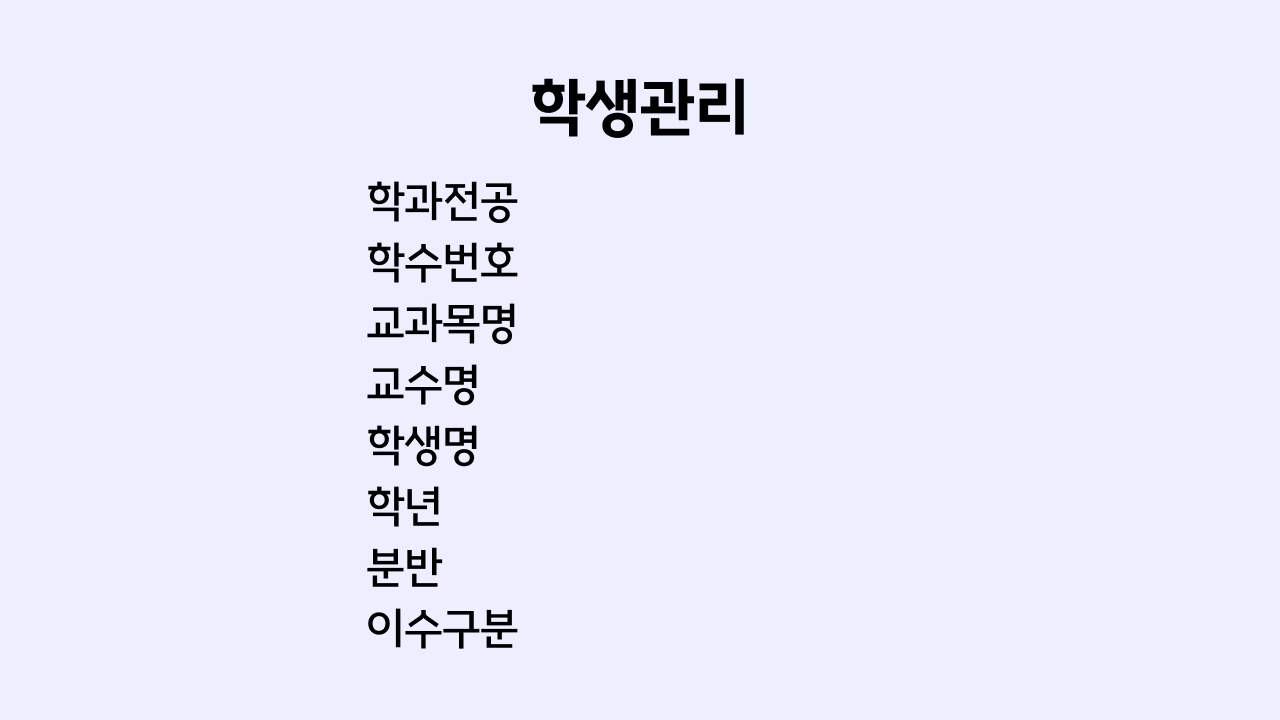
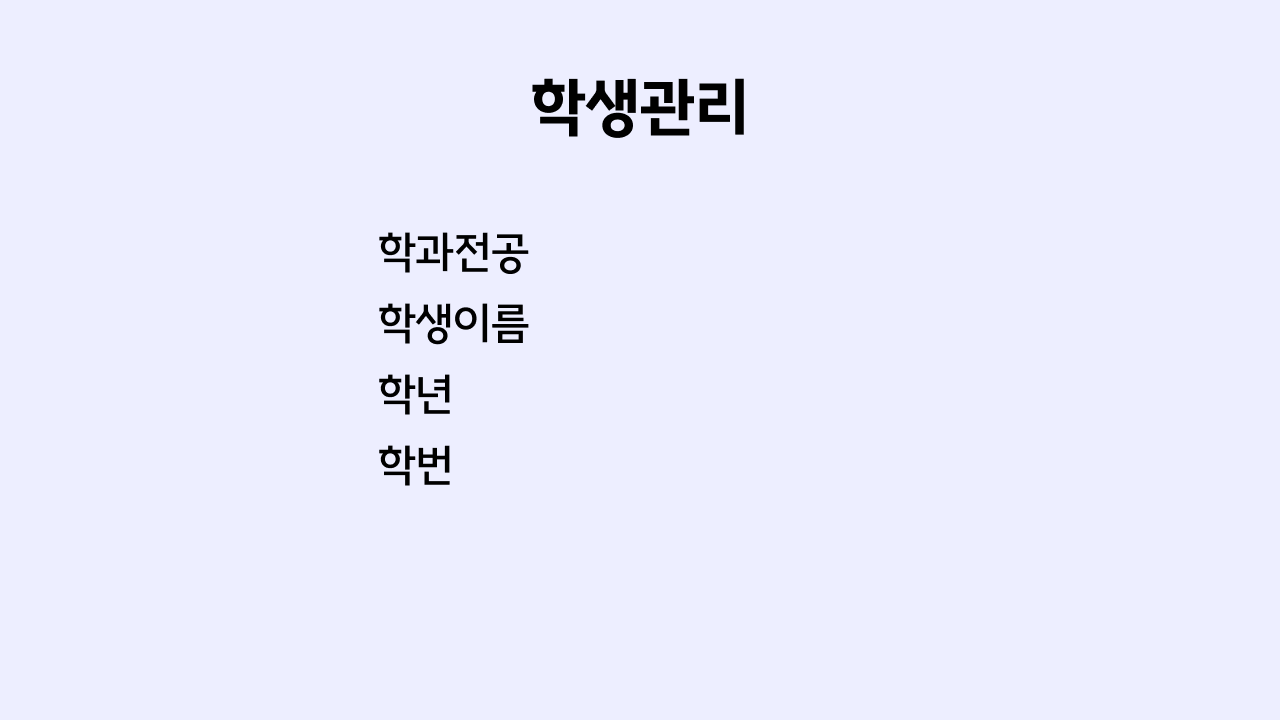
[:sparkles:] 학생관리 데이터 DB테이블에 저장

Changed region(s): [[0.2812, 0.2444, 0.4062, 0.7333], [0.2812, 0.7639, 0.4062, 0.9167]]

diff --git a/src/code/Student_Management.java b/src/code/Student_Management.java
@@ -8,86 +8,83 @@ import javax.swing.BorderFactory;
 import javax.swing.ImageIcon;
 import javax.swing.JButton;
 import javax.swing.JLabel;
+import javax.swing.JOptionPane;
 import javax.swing.JTextField;
 
 public class Student_Management extends InheritanceFrame {
 	
-	private JButton backbtn = new JButton();
 	private JButton completebtn = new JButton();
 	
 	private JTextField majortx = new JTextField();
-	private JTextField courseNtx = new JTextField();
-	private JTextField subjectNtx = new JTextField();
-	private JTextField professorNtx = new JTextField();
+//	private JTextField courseNtx = new JTextField();
+//	private JTextField subjectNtx = new JTextField();
+//	private JTextField professorNtx = new JTextField();
 	private JTextField studentNtx = new JTextField();
 	private JTextField gradetx = new JTextField();
-	private JTextField divisiontx = new JTextField();
-	private JTextField classificationtx = new JTextField();
+	private JTextField sIDtx = new JTextField();
+//	private JTextField classificationtx = new JTextField();
 	
 	public Student_Management() {
 		super("STUDENT MANAGEMENT", Main.SCREEN_WIDTH, Main.SCREEN_HEIGHT);
 		setLayout(null);
     	
-		JButtonStyle(backbtn, 755, 20, "Student_Management_Screen_Back_Button.png");
     	JButtonStyle(completebtn, 920, 20, "Student_Management_Screen_Complete_Button.png");
     	
-    	TextFieldStyle(majortx, 180);			// 학과전공
-		TextFieldStyle(courseNtx, 240);			// 학수번호
-		TextFieldStyle(subjectNtx, 300);		// 교과목명
-		TextFieldStyle(professorNtx, 360);		// 교수명
-		TextFieldStyle(studentNtx, 420);		// 학생명
-		TextFieldStyle(gradetx, 480);			// 학년
-		TextFieldStyle(divisiontx, 540);		// 분반
-		TextFieldStyle(classificationtx, 605);	// 이수구분
+    	TextFieldStyle(majortx, 230);			
+//		TextFieldStyle(courseNtx, 240);			
+//		TextFieldStyle(subjectNtx, 300);		
+//		TextFieldStyle(professorNtx, 360);		
+		TextFieldStyle(studentNtx, 300);		
+		TextFieldStyle(gradetx, 370);			
+		TextFieldStyle(sIDtx, 440);		
+//		TextFieldStyle(classificationtx, 605);	
 		
 		JLabel lb = new JLabel(new ImageIcon(getClass().getResource("/image/Student_Management_Screen.png")));
         lb.setBounds(0, 0, Main.SCREEN_WIDTH, Main.SCREEN_HEIGHT);
         add(lb);
-        
-        backbtn.addActionListener(e -> {
-        	dispose();
-        	new Professor().setVisible(true);
-        });
-        
+
         completebtn.addActionListener(e -> {
         	// 완료 : DB 테이블에 값 저장, 메인화면으로 이동
         	String major = majortx.getText();
-        	String course = courseNtx.getText();
-        	String subject = subjectNtx.getText();
-        	String professor = professorNtx.getText();
+//        	String course = courseNtx.getText();
         	String student = studentNtx.getText();
         	String grade = gradetx.getText();
-        	String division = divisiontx.getText();
-        	String classification = classificationtx.getText();
+        	String sID = sIDtx.getText();
         	
         	DB_connection s;
         	
         	try {
-        		s = new DB_connection();
-        		String sql = "INSERT INTO signup.student_management(major, subnum, subject, professor, sname, grade, class, course) VALUES (?, ?, ?, ?, ?, ?, ?, ?)";
-	        	PreparedStatement ps = s.conn.prepareStatement(sql);
-	        	
-	        	ps.setString(1, major);
-	        	ps.setString(2, course);
-	        	ps.setString(3, subject);
-	        	ps.setString(4, professor);
-	        	ps.setString(5, student);
-	        	ps.setString(6, grade);
-	        	ps.setString(7, division);
-	        	ps.setString(8, classification);
-	        	
-				s = new DB_connection();        	
-				ps.executeUpdate();
-				
-			} catch (Exception e1) {
-				e1.printStackTrace();
-				System.out.println(e1.toString());
-			}
+        	    s = new DB_connection();
+        	    String sql = "INSERT INTO signup.student_management(major, name, grade, sID) VALUES (?, ?, ?, ?)";
+        	    PreparedStatement ps = s.conn.prepareStatement(sql);
+
+        	    ps.setString(1, major);
+        	    ps.setString(2, student);
+        	    ps.setString(3, grade);
+        	    ps.setString(4, sID);
+
+        	    s = new DB_connection();    
+
+        	    int affectedRows = ps.executeUpdate();
+
+        	    if (affectedRows > 0) {
+        	        System.out.println("저장 완료");
+        	        JOptionPane.showMessageDialog(this, "저장 완료", "알림", JOptionPane.INFORMATION_MESSAGE);
+        	    } else {
+        	        System.out.println("레코드 삽입 실패");
+        	        JOptionPane.showMessageDialog(this, "레코드 삽입 실패", "오류", JOptionPane.ERROR_MESSAGE);
+        	    }
+
+        	} catch (Exception e1) {
+        	    e1.printStackTrace();
+        	    System.out.println(e1.toString());
+        	    JOptionPane.showMessageDialog(this, "오류 발생: " + e1.getMessage(), "오류", JOptionPane.ERROR_MESSAGE);
+        	}
         	
         	dispose();
-        	new Professor().setVisible(true);
+            new Professor().setVisible(true);
         });
-        
+
 	}
 	
 	// 버튼 설정 메소드
@@ -102,7 +99,7 @@ public class Student_Management extends InheritanceFrame {
     
     // 텍스트필드 설정 메소드
     private JTextField TextFieldStyle(JTextField textField, int x) {
-        textField.setBounds(550, x, 495, 43);
+        textField.setBounds(550, x, 495, 45);
         textField.setBackground(Color.decode("#C8C9DA"));
         textField.setFont(new Font("SUITE", Font.PLAIN, 18));
         textField.setBorder(BorderFactory.createEmptyBorder());

diff --git a/src/code/Lecture_Management.java b/src/code/Lecture_Management.java
@@ -16,7 +16,7 @@ public class Lecture_Management extends InheritanceFrame {
 
     private JButton correctionbtn = new JButton();
     private JButton registrationbtn = new JButton();
-    
+
     private JTextField majortx = new JTextField();
     private JTextField numtx = new JTextField();
     private JTextField classtx = new JTextField();
@@ -51,6 +51,7 @@ public class Lecture_Management extends InheritanceFrame {
         lb.setBounds(0, 0, Main.SCREEN_WIDTH, Main.SCREEN_HEIGHT);
         add(lb);
 
+        // correctionbtn 액션 리스너
         correctionbtn.addActionListener(e -> {
             String major = majortx.getText();
             String num = numtx.getText();
@@ -104,6 +105,7 @@ public class Lecture_Management extends InheritanceFrame {
             new Professor().setVisible(true);
         });
 
+        // registrationbtn 액션 리스너
         registrationbtn.addActionListener(e -> {
             String major = majortx.getText();
             String num = numtx.getText();
@@ -118,26 +120,41 @@ public class Lecture_Management extends InheritanceFrame {
                 // 데이터베이스에 연결
                 DB_connection s = new DB_connection(url, user, password);
 
-                String sql = "INSERT INTO signup.timetable(major, num, class, subject, course, score, time, lectureroom) VALUES (?, ?, ?, ?, ?, ?, ?, ?)";
-                try (PreparedStatement ps = s.conn.prepareStatement(sql)) {
-                    ps.setString(1, major);
-                    ps.setString(2, num);
-                    ps.setString(3, classroom);
-                    ps.setString(4, subject);
-                    ps.setString(5, course);
-                    ps.setString(6, score);
-                    ps.setString(7, time);
-                    ps.setString(8, lectureroom);
+                // 새 레코드 추가
+                String insertSql = "INSERT INTO signup.timetable(major, num, class, subject, course, score, time, lectureroom) VALUES (?, ?, ?, ?, ?, ?, ?, ?)";
+                try (PreparedStatement insertPs = s.conn.prepareStatement(insertSql, PreparedStatement.RETURN_GENERATED_KEYS)) {
+                    insertPs.setString(1, major);
+                    insertPs.setString(2, num);
+                    insertPs.setString(3, classroom);
+                    insertPs.setString(4, subject);
+                    insertPs.setString(5, course);
+                    insertPs.setString(6, score);
+                    insertPs.setString(7, time);
+                    insertPs.setString(8, lectureroom);
 
-                    ps.executeUpdate();
+                    int affectedRows = insertPs.executeUpdate();
+
+                    if (affectedRows > 0) {
+                        // 삽입된 레코드의 ID 가져오기
+                        try (ResultSet generatedKeys = insertPs.getGeneratedKeys()) {
+                            if (generatedKeys.next()) {
+                                int newRecordId = generatedKeys.getInt(1);
+                                System.out.println("New Record ID: " + newRecordId);
+                            }
+                        }
+                        JOptionPane.showMessageDialog(this, "저장 완료", "알림", JOptionPane.INFORMATION_MESSAGE);
+                    } else {
+                        JOptionPane.showMessageDialog(this, "레코드 삽입 실패", "오류", JOptionPane.ERROR_MESSAGE);
+                    }
                 }
-
-                // 저장 완료 메시지 출력
-                JOptionPane.showMessageDialog(this, "저장 완료", "알림", JOptionPane.INFORMATION_MESSAGE);
+            } catch (SQLException e1) {
+                e1.printStackTrace();
+                JOptionPane.showMessageDialog(this, "오류 발생: " + e1.getMessage(), "오류", JOptionPane.ERROR_MESSAGE);
             } catch (Exception e1) {
                 e1.printStackTrace();
                 System.out.println(e1.toString());
             }
+            
             dispose();
             new Professor().setVisible(true);
         });
@@ -163,10 +180,10 @@ public class Lecture_Management extends InheritanceFrame {
         return textField;
     }
 
- // findRecordId 메서드에 디버깅 문 추가
+    // 실제 데이터베이스와 상호작용하여 레코드 ID를 찾는 메소드
     private int findRecordId(DB_connection s, String major, String num, String classroom, String subject, String course) {
         try {
-            String query = "SELECT id FROM timetable " +
+            String query = "SELECT id FROM signup.timetable " +
                     "WHERE major = ? AND num = ? AND class = ? AND subject = ? AND course = ?";
 
             PreparedStatement queryPs = s.conn.prepareStatement(query);
@@ -201,5 +218,4 @@ public class Lecture_Management extends InheritanceFrame {
             return -1; // 기타 예외 발생 시 -1 반환
         }
     }
-
 }

diff --git a/src/code/Create_Table_student_management.java b/src/code/Create_Table_student_management.java
@@ -18,13 +18,9 @@ public class Create_Table_student_management extends Create_Schema {
 		if(!table_exists) { // 테이블이 존재하지 않으면 테이블 생성
 			stmt.execute("CREATE TABLE `" + schema_name + "`.`" + table_name + "` (\r\n"
 					+ "`major` VARCHAR(30) NOT NULL, \r\n"
-					+ "`subnum` VARCHAR(10) NOT NULL, \r\n"
-					+ "`subject` VARCHAR(100) NOT NULL \r\n"
-					+ "`professor` VARCHAR(15) NOT NULL \r\n"
-					+ "`sname` VARCHAR(7) NOT NULL, \r\n"
+					+ "`name` VARCHAR(10) NOT NULL, \r\n"
 					+ "`grade` INT NOT NULL PRIMARY KEY, \r\n"
-					+ "`class` INT NOT NULL, \r\n"
-					+ "`course` VARCHAR(20) NOT NULL");
+					+ "`sID` VARCHAR(10) NOT NULL");
 
 			System.out.println("student_management 테이블 생성");
 		}
